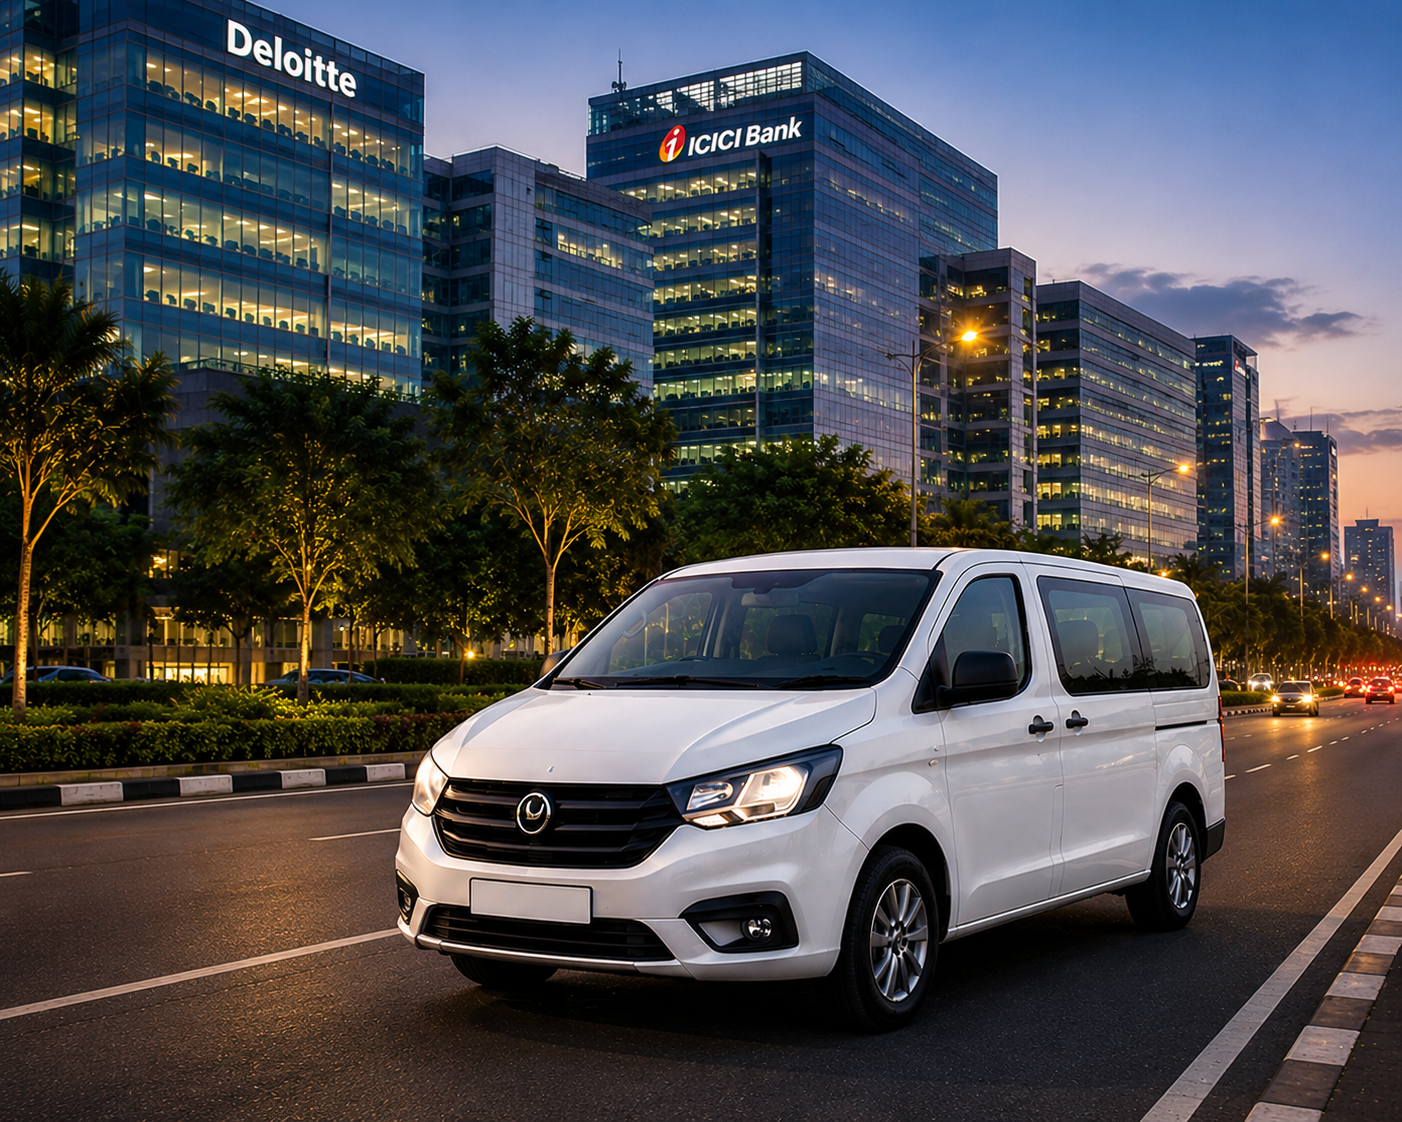
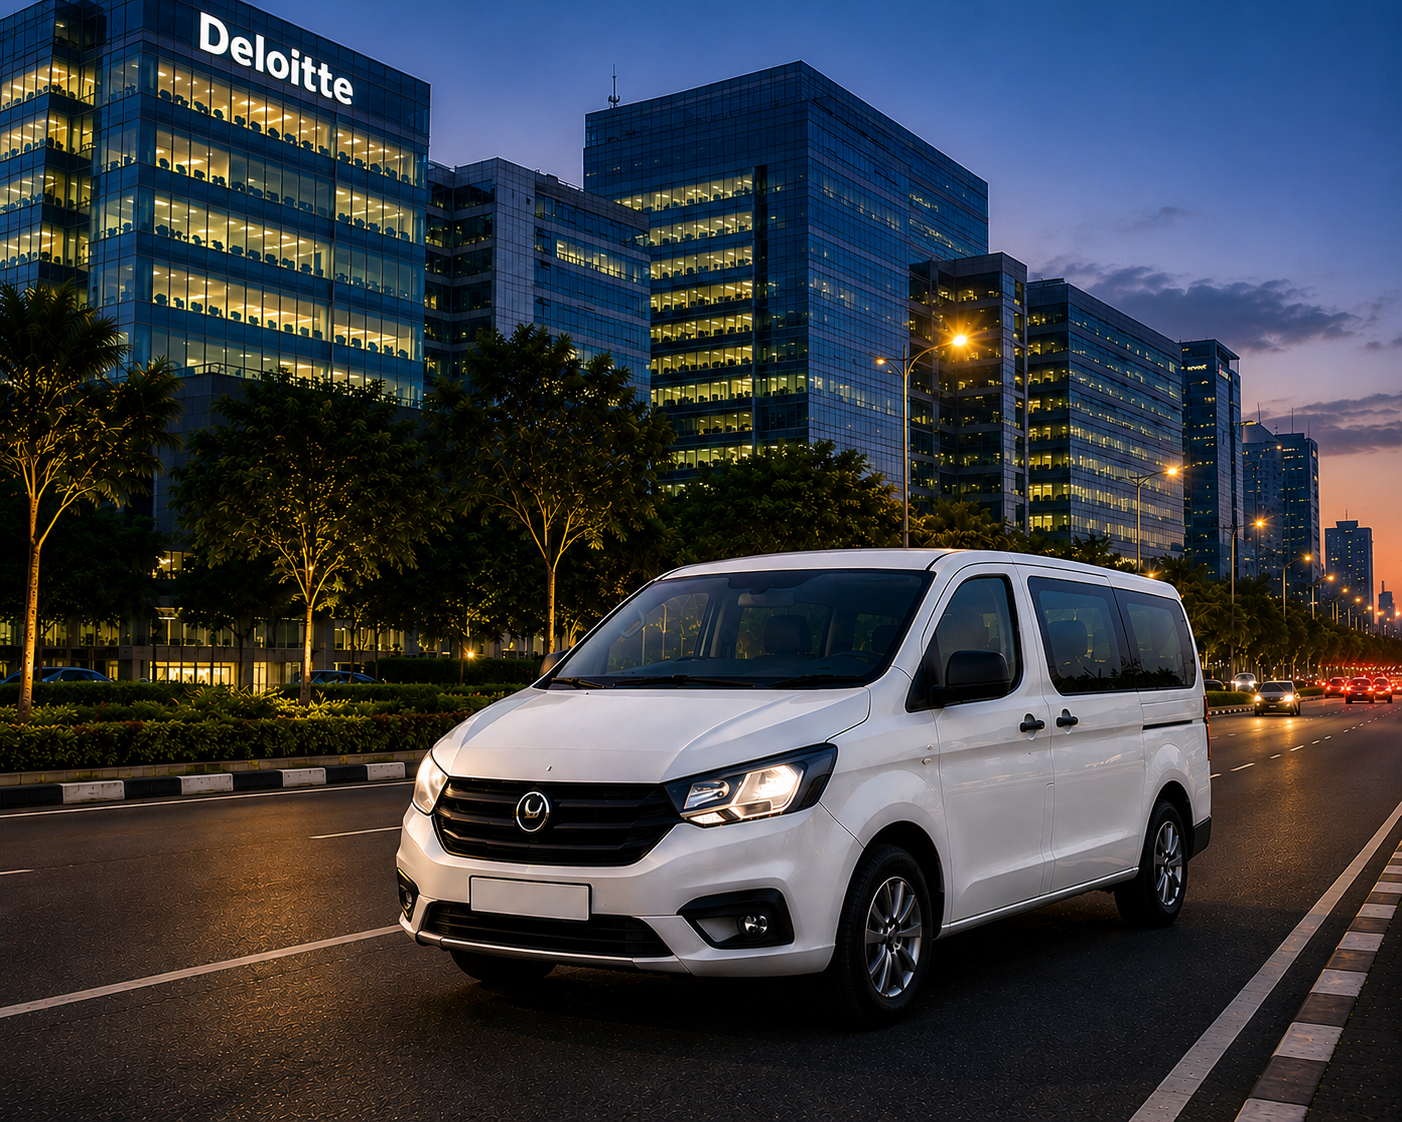
changed emai and address

diff --git a/src/pages/Contact.jsx b/src/pages/Contact.jsx
@@ -40,7 +40,7 @@ export default function Contact() {
               </div>
               <div>
                 <h3 className="font-semibold text-gray-900">Email</h3>
-                <p className="text-gray-600">[email redacted]</p>
+                <p className="text-gray-600">[email redacted]</p>
               </div>
             </div>
             <div className="flex items-start gap-4">
@@ -49,7 +49,7 @@ export default function Contact() {
               </div>
               <div>
                 <h3 className="font-semibold text-gray-900">Office</h3>
-                <p className="text-gray-600">123 Transport Lane, Suite 400<br />City, State 00000</p>
+                <p className="text-gray-600">Hyderabad, Telangana</p>
               </div>
             </div>
             <div className="flex items-start gap-4">